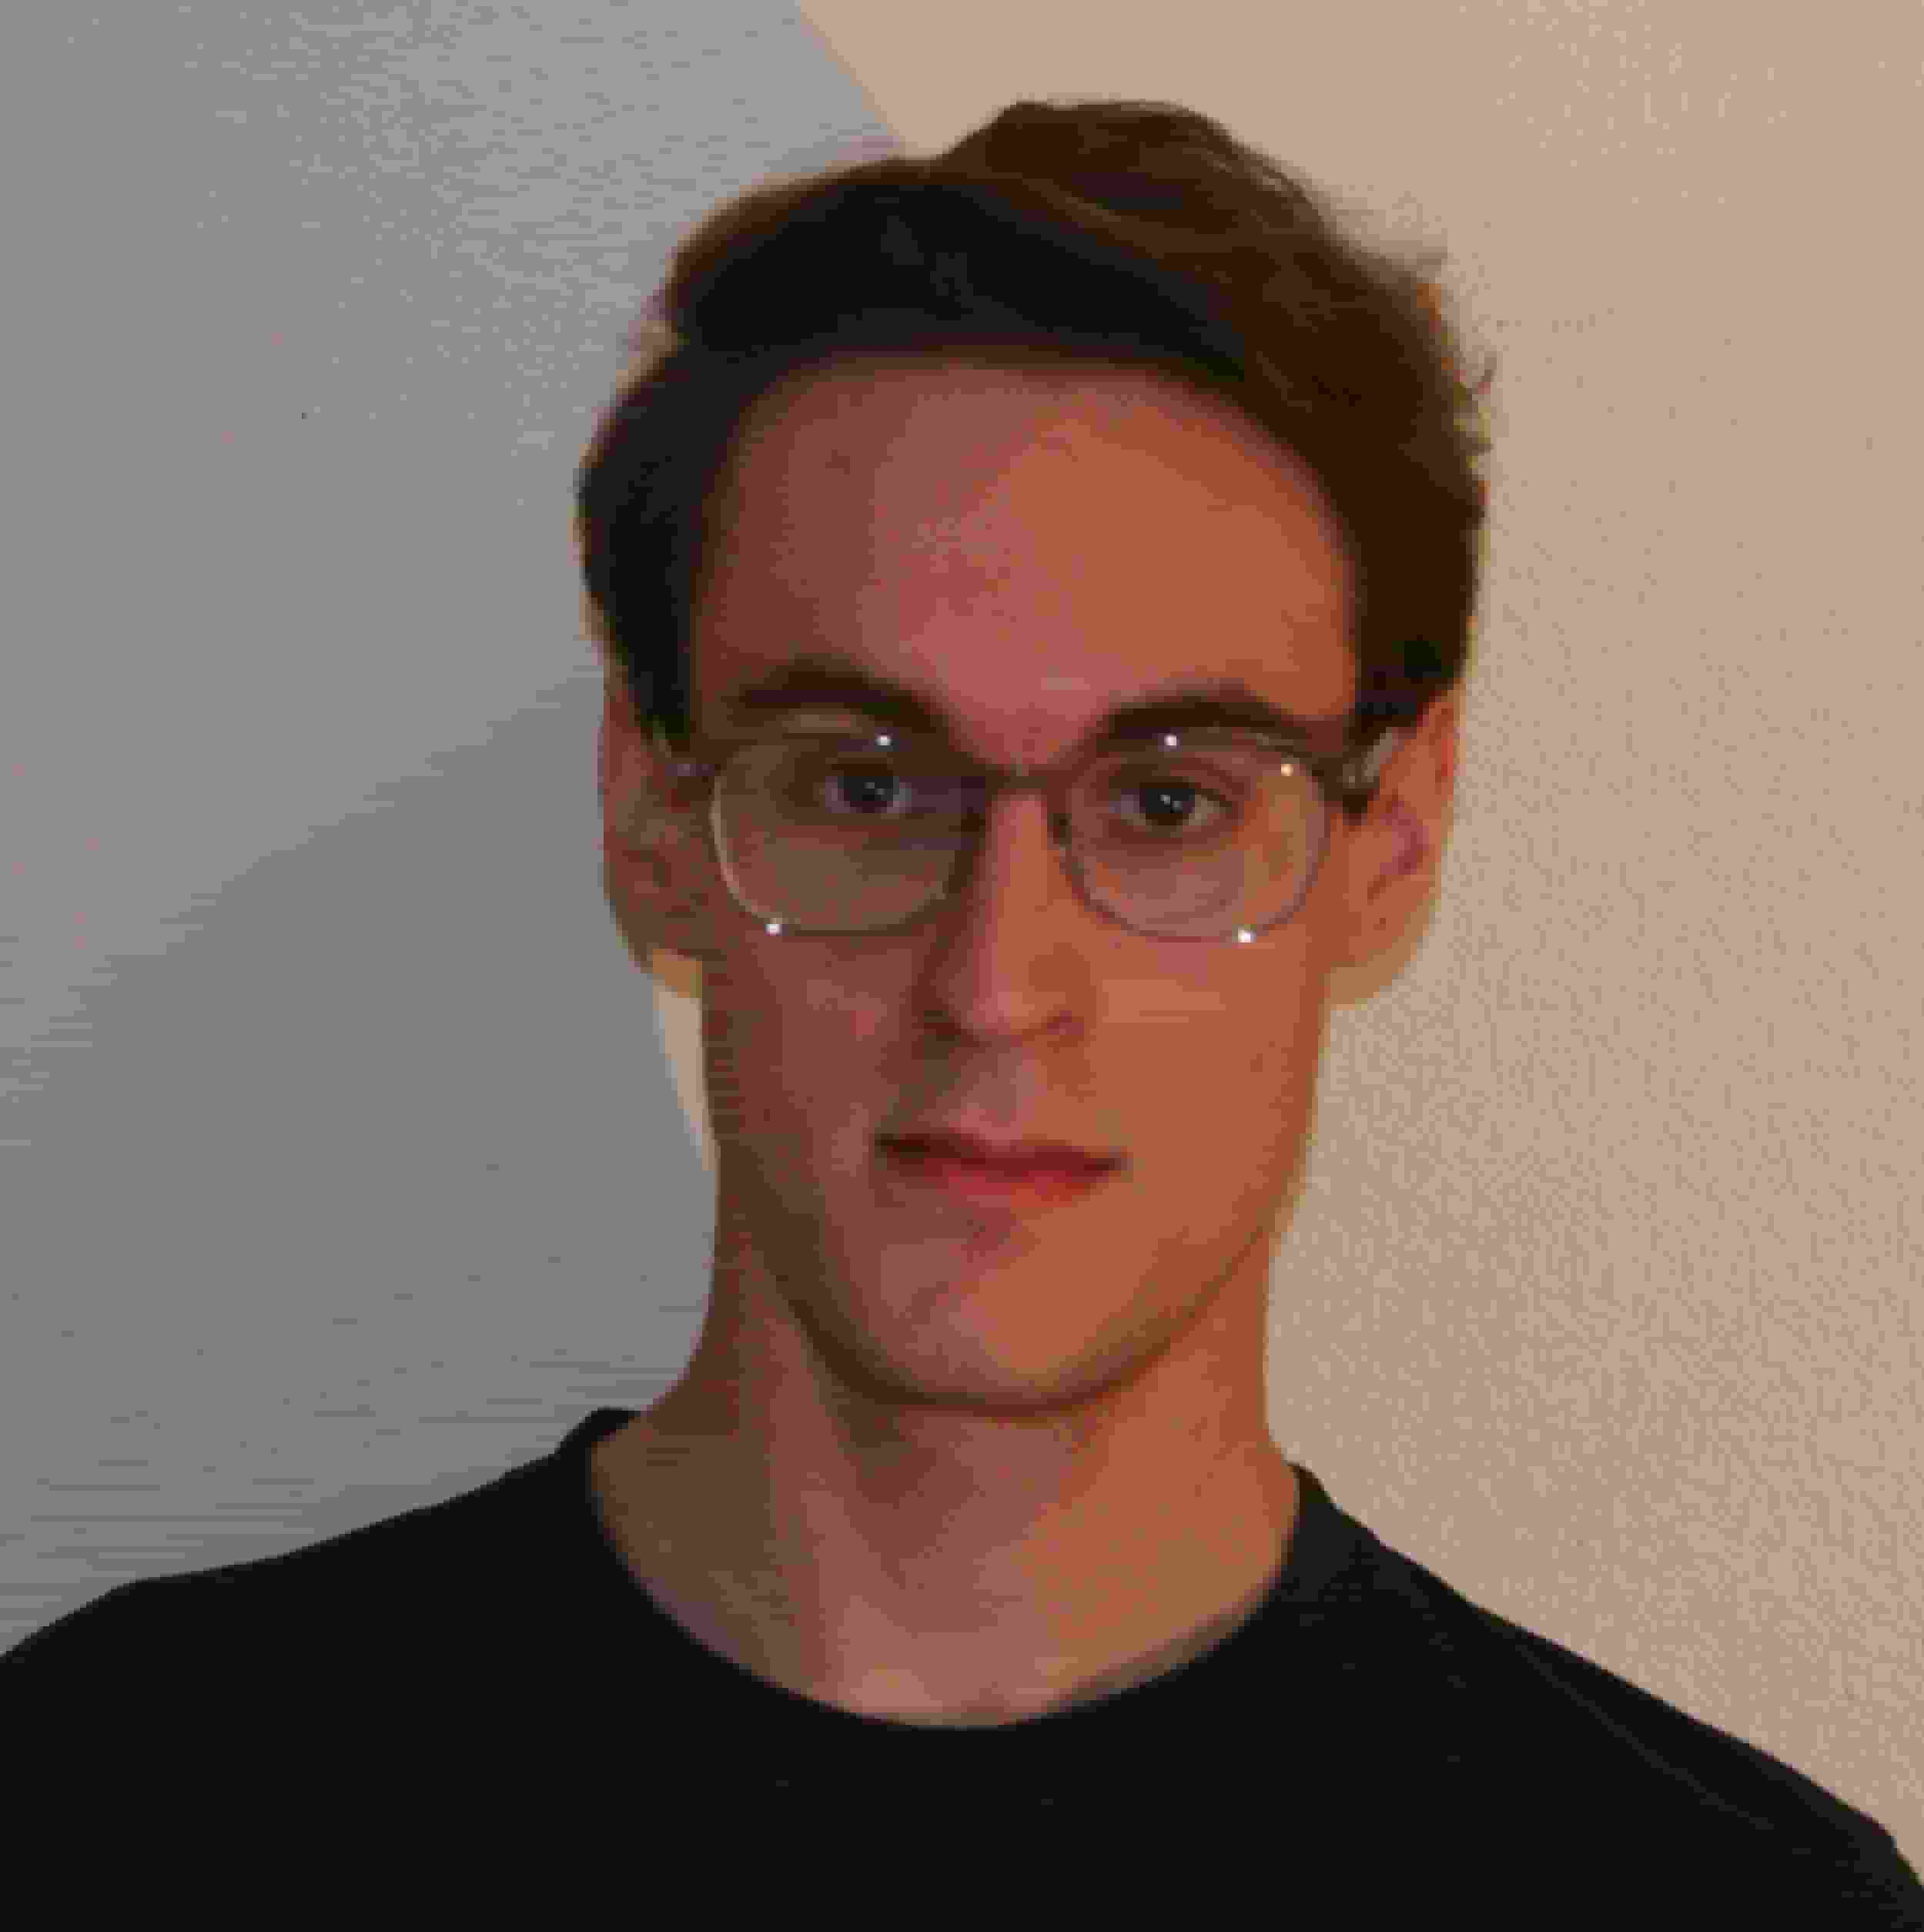
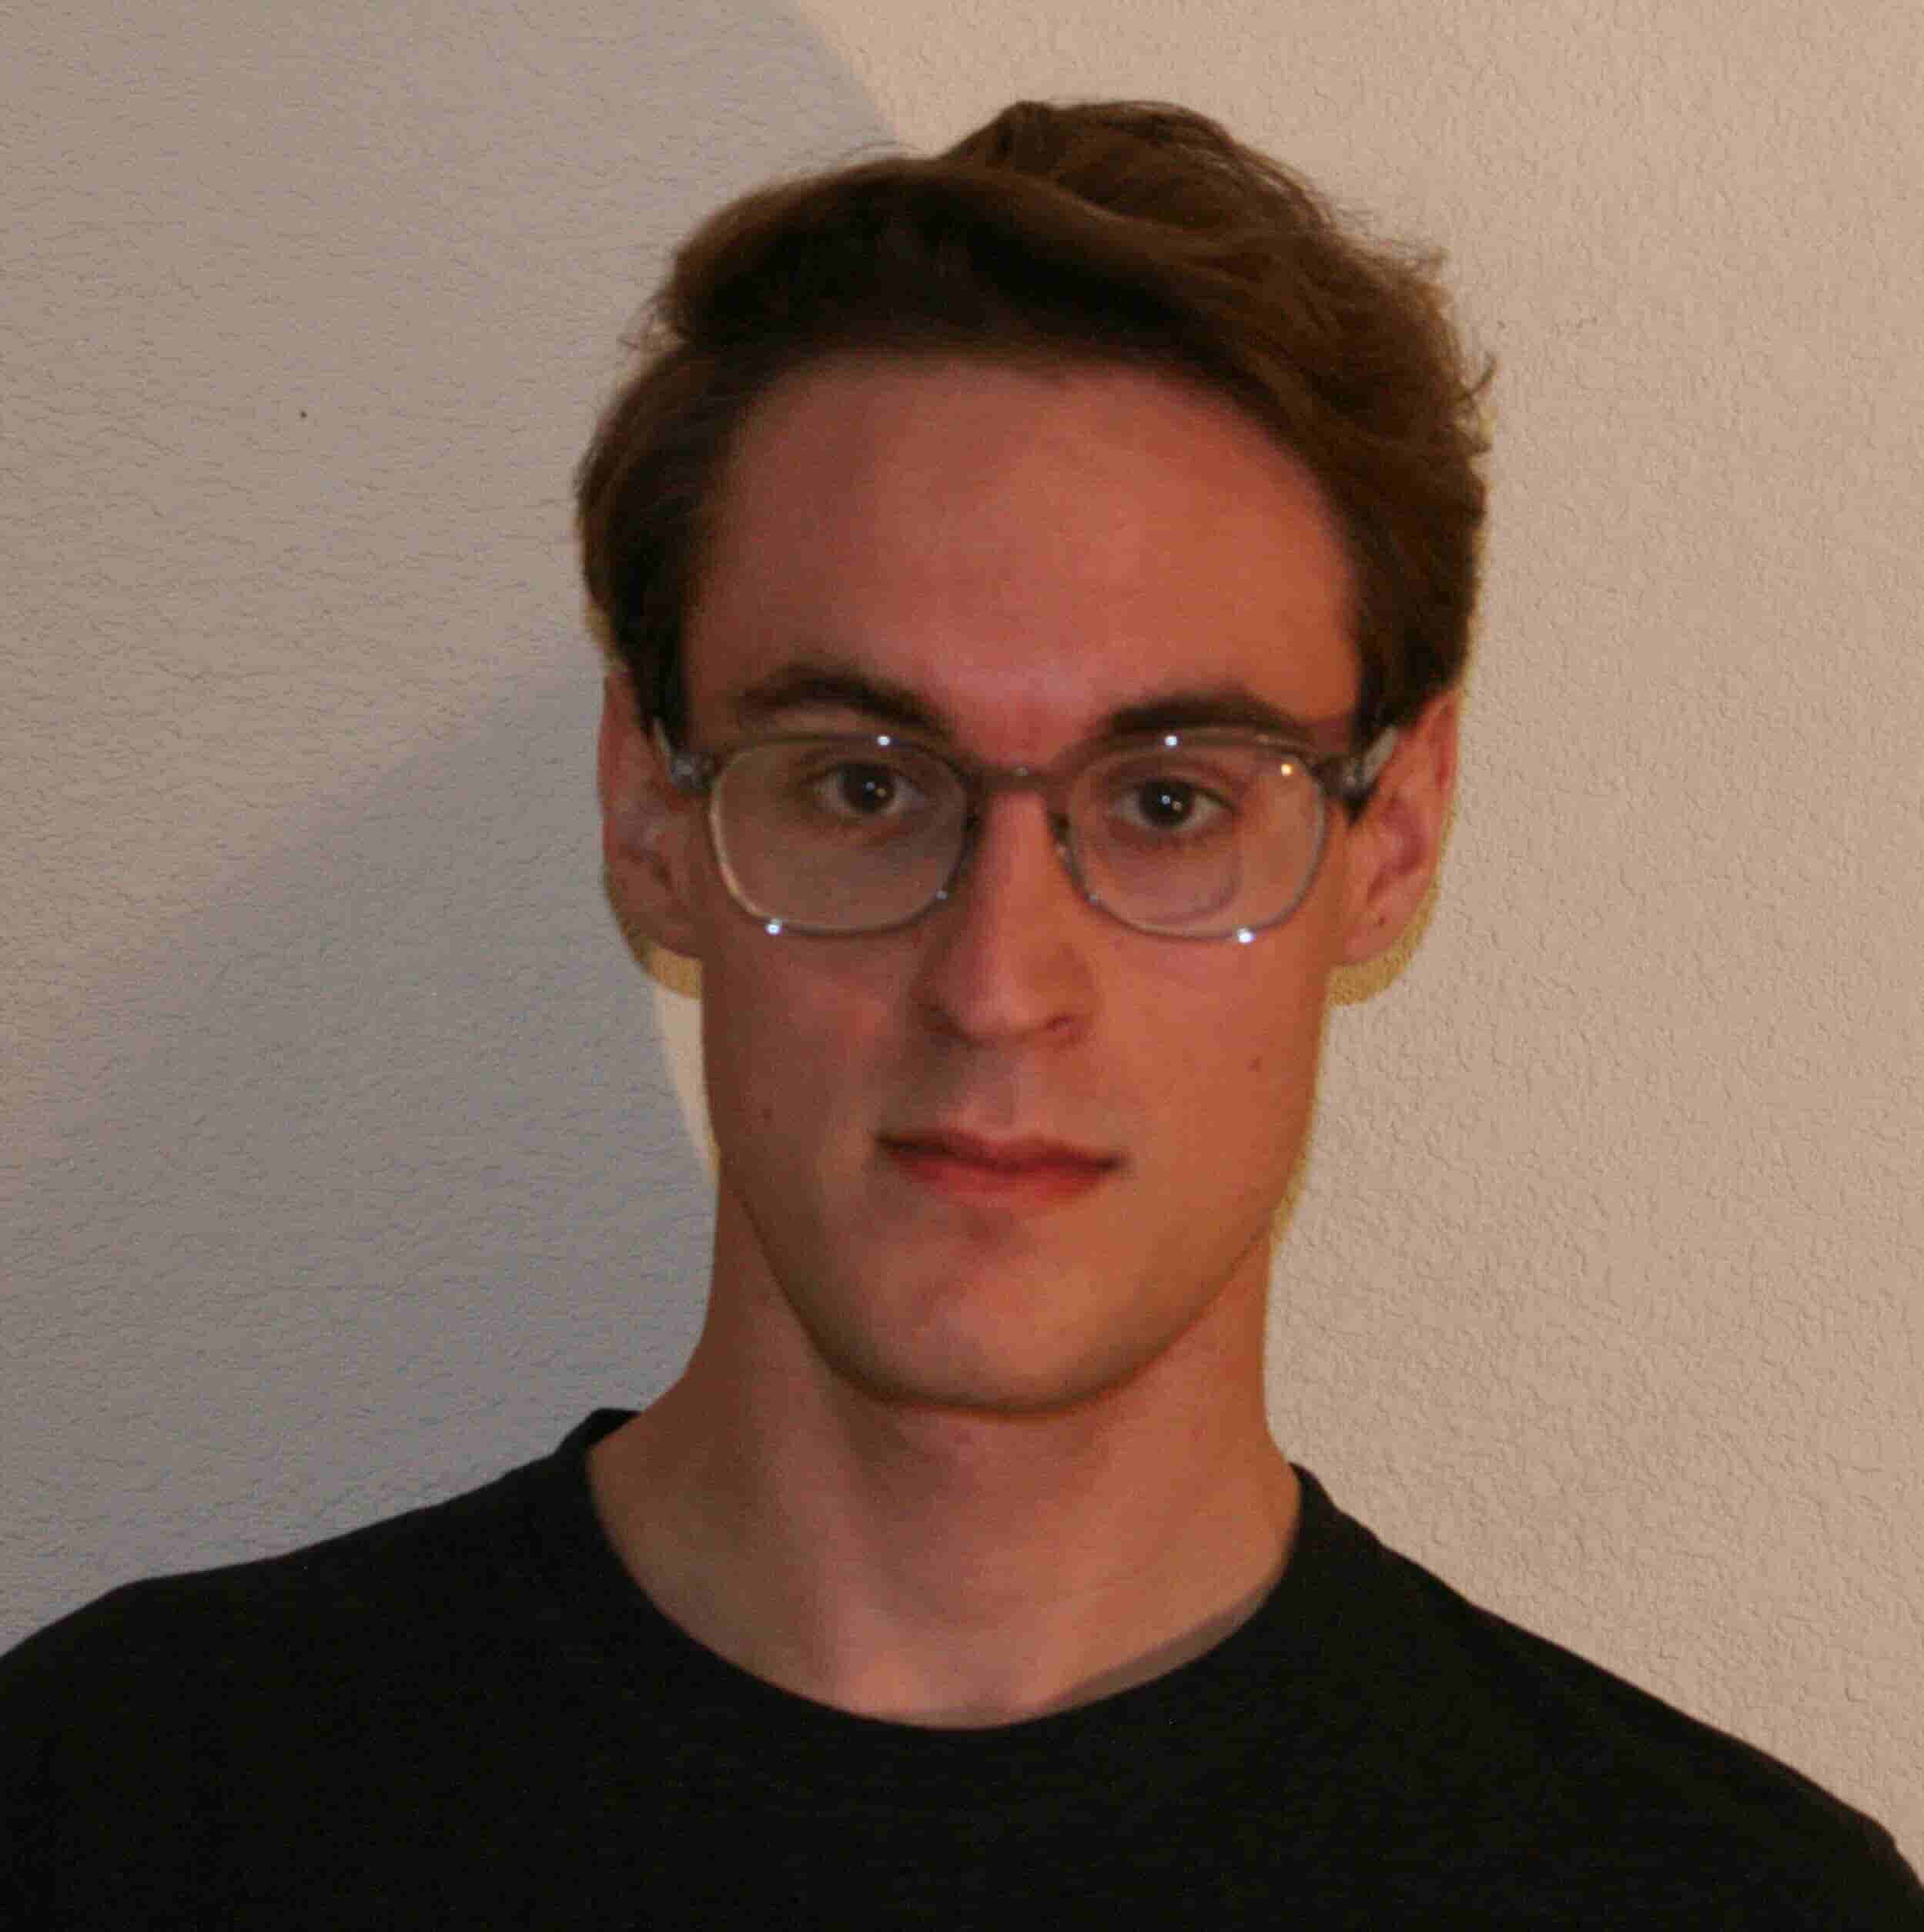
feat: web

diff --git a/index.html b/index.html
@@ -1,16 +1,30 @@
-<!DOCTYPE html>
-<html lang="en">
-<head>
-  <meta charset="UTF-8" />
-  <meta name="viewport" content="width=device-width, initial-scale=1.0" />
+<html><head><meta http-equiv="Content-Type" content="text/html; charset=windows-1252">
+
+<title>Ian Snider</title>
+
 </head>
-<body>
-  <img src="profile.jpg" alt="Ian Snider" width="100" height="100" /><br>
-  <h1>Ian Snider</h1>
-  <a href="https://github.com/iqsnider" target="_blank" rel="noreferrer">GitHub</a><br>
-  <a href="/CV">CV</a><br>
-  <a href="../files/Snider_Ian_ESE4481_Final.pdf" target="_blank" rel="noreferrer">A weird drone control system</a><br>
-  <a href="../files/Snider_Ian_ESE441_Case_Study.pdf" target="_blank" rel="noreferrer">Artificial Pancreas</a><br>
-  <a href="mailto:iqsnider@berkeley.edu?subject=Project%20inquiry&body=Hello%20Ian,">iqsnider@berkeley.edu</a>
-</body>
-</html>
+
+<body bgcolor="#FFFFFA">
+
+<table>
+<tbody><tr>
+<td rowspan="6">
+<a href="profile.jpg"><img width="252" height="252" border="0" src="profile.jpg"></a>
+</td>
+<td>
+<b>Ian Snider</b>
+</td>
+</tr>
+<tr>
+<td valign="top">
+Rm 4030<br>
+Bldg. 50B<br>
+Berkeley, CA 94720, USA<br>
+iqsnider@berkeley.edu<br>
+</td>
+</tr>
+</tbody></table>
+
+<p>
+      I work as a PhD student in the UC Berkeley Nuclear Engineering department and the Lawrence-Berkeley National Lab Applied Nuclear Physics Division. I'm interested in robotics, radiation detection, control, and mapping. You can find my <a href="/CV/Snider_Ian_CV.pdf">CV</a> and <a href="https://github.com/iqsnider">GitHub</a> here. Some things from undergrad are <a href="files/Snider_Ian_ESE4481_Final.pdf">a weird drone control system</a> and an <a href="files/Snider_Ian_ESE441_Case_Study.pdf">artificial pancreas</a>.
+</p></body></html>
